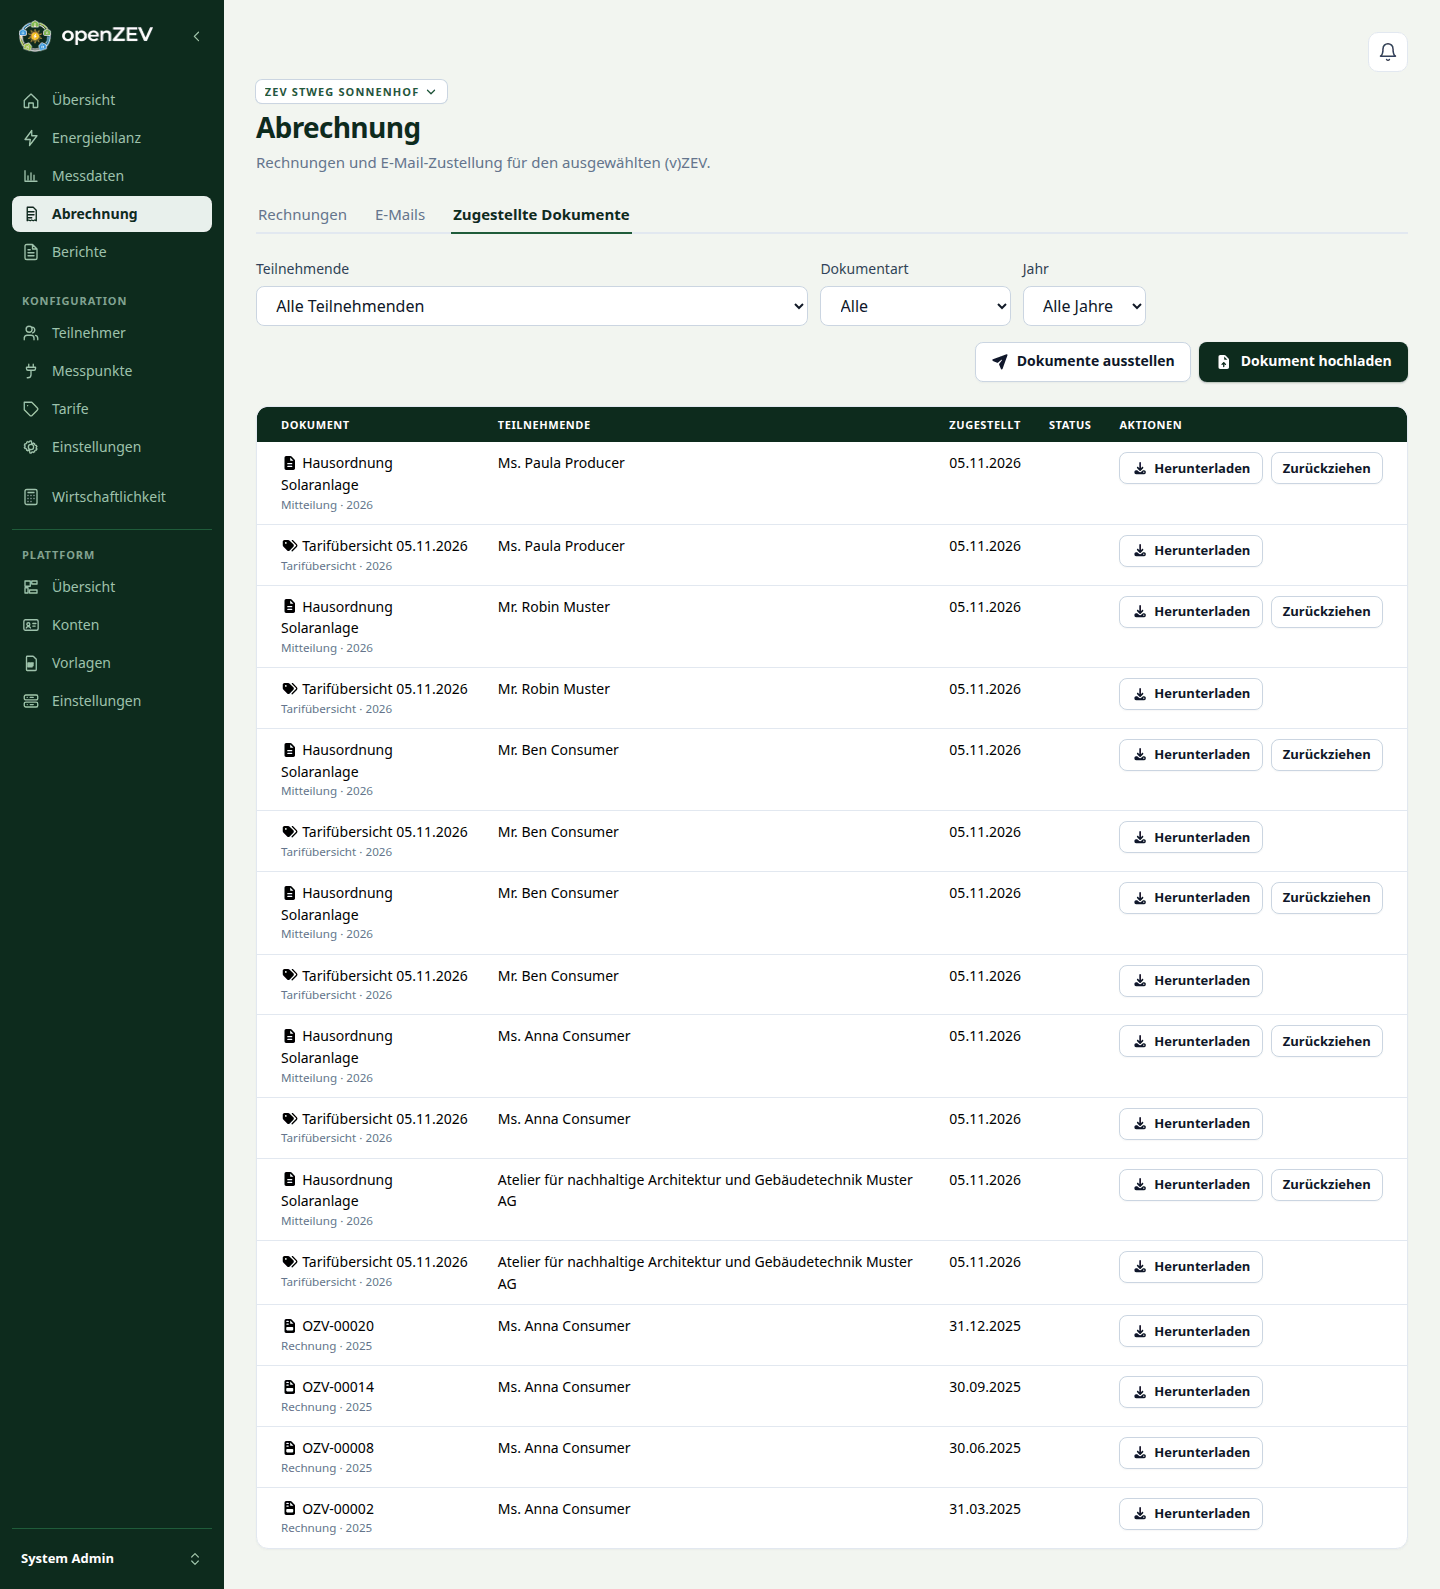
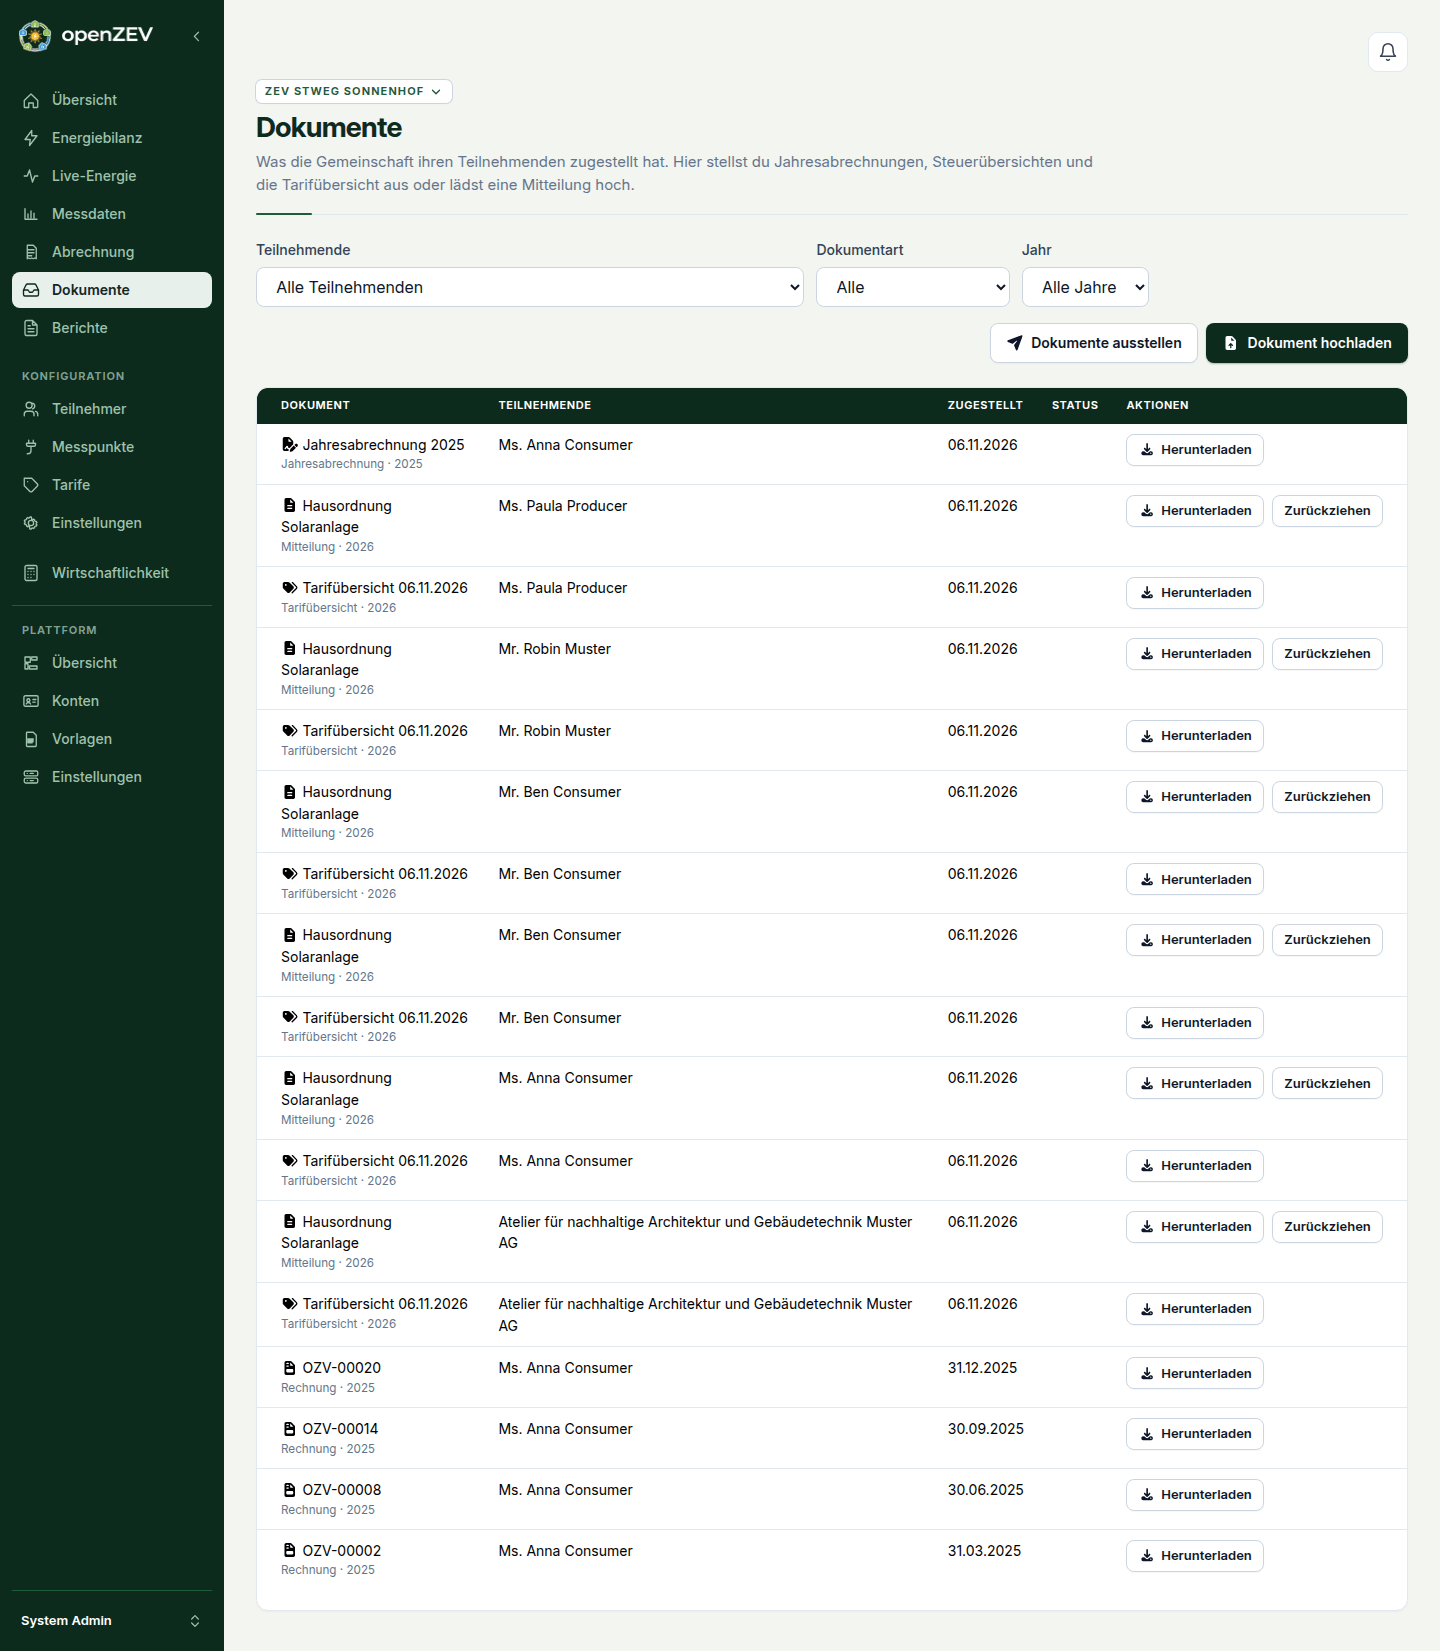
feat(inbox): give the participant documents a page of their own (#862)
What the community delivered to its participants, with Issue and Upload, was a
third tab of the billing hub. It is now Documents in the management navigation
(/documents); /billing/documents redirects. The outbox is cards on a phone.

diff --git a/frontend/src/features/inbox/Outbox.tsx b/frontend/src/features/inbox/Outbox.tsx
@@ -22,13 +22,14 @@ import { StandingBadge, useDownloadDocument } from './DocumentsList'
 import { IssueReportsDialog, issueYears } from './IssueReportsDialog'
 import { UploadDocumentDialog } from './UploadDocumentDialog'
 import './inbox.css'
+import './InvoiceDocuments.css'
 
 /**
- * The *Delivered documents* tab of the billing hub (spec §7.2): what the community delivered to
- * whom and when, so "did Anna get her statement?" has an answer. Withdrawn rows stay visible here
- * and are marked; participants no longer see them.
+ * The manager's *Participant documents* page body (spec §7.2): what the community delivered to
+ * whom and when, so "did Anna get her statement?" has an answer, and where documents are issued or
+ * uploaded. Withdrawn rows stay visible here and are marked; participants no longer see them.
  */
-export function OutboxTab() {
+export function Outbox() {
   const { t } = useTranslation()
   const { settings } = useAppSettings()
   const { pushToast } = useToast()
@@ -139,7 +140,7 @@ export function OutboxTab() {
         </div>
       ) : (
         <section className="table-card">
-          <div className="table-scroll">
+          <div className="table-scroll doc-wide">
             <table className="billing-workflow-table">
               <thead>
                 <tr>
@@ -202,6 +203,44 @@ export function OutboxTab() {
               </tbody>
             </table>
           </div>
+          <ul className="doc-cards">
+            {documents.map((document) => {
+              const addressee = document.participant ? byId.get(document.participant) : undefined
+              const withoutAccount = addressee != null && addressee.user == null
+              return (
+                <li key={document.id} className="doc-card">
+                  <div className="doc-card-head">
+                    <strong><FontAwesomeIcon icon={KIND_ICON[document.kind]} fixedWidth aria-hidden="true" /> {document.title}</strong>
+                    <span>
+                      <StandingBadge document={document} />
+                      {withoutAccount && <span className="badge badge-neutral">{t('inbox.outbox.noAccount')}</span>}
+                    </span>
+                  </div>
+                  <p className="muted doc-card-meta">
+                    {document.participant_name ?? '—'} · {t(`inbox.kind.${document.kind}`)} · {documentYear(document)}
+                  </p>
+                  <p className="muted doc-card-meta">
+                    {formatShortDate(document.delivered_at.slice(0, 10), settings)}
+                    {document.delivered_by_name ? ` · ${document.delivered_by_name}` : ''}
+                  </p>
+                  <button
+                    type="button"
+                    className="button button-secondary"
+                    aria-label={t('inbox.downloadLabel', { title: document.title })}
+                    onClick={() => void download(document)}
+                  >
+                    <FontAwesomeIcon icon={faDownload} fixedWidth />
+                    {t('inbox.download')}
+                  </button>
+                  {canWriteSelectedCommunity && document.kind === 'operator' && !document.withdrawn_at && (
+                    <button type="button" className="button button-secondary" onClick={() => askWithdraw(document)}>
+                      {t('inbox.outbox.withdraw')}
+                    </button>
+                  )}
+                </li>
+              )
+            })}
+          </ul>
         </section>
       )}
 

diff --git a/frontend/tests/route-guard-matrix.test.ts b/frontend/tests/route-guard-matrix.test.ts
@@ -85,6 +85,7 @@ vi.mock('../src/pages/TariffsPage', () => ({ TariffsPage: marker('tariffs') }))
 vi.mock('../src/pages/InvoicesPage', () => ({ InvoicesContent: marker('invoices') }))
 vi.mock('../src/pages/MyInvoicesPage', () => ({ MyInvoicesPage: marker('my-invoices') }))
 vi.mock('../src/pages/DocumentsPage', () => ({ DocumentsPage: marker('my-documents') }))
+vi.mock('../src/pages/ParticipantDocumentsPage', () => ({ ParticipantDocumentsPage: marker('participant-documents') }))
 vi.mock('../src/pages/MyMeteringPointsPage', () => ({ MyMeteringPointsPage: marker('my-metering-points') }))
 vi.mock('../src/pages/InvoiceDetailPage', () => ({ InvoiceDetailPage: marker('invoice-detail') }))
 vi.mock('../src/pages/ReportsPage', () => ({ ReportsPage: marker('reports') }))
@@ -174,6 +175,9 @@ const MATRIX: Array<{ path: string; marker: string; allow: Record<ShellRole, boo
     { path: '/billing/periods', marker: 'periods-alias', allow: { admin: true, manager: true, viewer: true, participant: false, former: false, none: false } },
     { path: '/billing/invoices', marker: 'billing-hub', allow: { admin: true, manager: true, viewer: true, participant: false, former: false, none: false } },
     { path: '/billing/emails', marker: 'billing-hub', allow: { admin: true, manager: true, viewer: true, participant: false, former: false, none: false } },
+    { path: '/documents', marker: 'participant-documents', allow: { admin: true, manager: true, viewer: true, participant: false, former: false, none: false } },
+    // The old tab of the billing hub redirects to the page of its own.
+    { path: '/billing/documents', marker: 'participant-documents', allow: { admin: true, manager: true, viewer: true, participant: false, former: false, none: false } },
     { path: '/billing/statements', marker: 'reports', allow: { admin: true, manager: true, viewer: true, participant: true, former: false, none: false } },
     { path: '/billing/invoices/42', marker: 'invoice-detail', allow: { admin: true, manager: true, viewer: true, participant: true, former: true, none: false } },
     { path: '/me/statement', marker: 'reports', allow: { admin: false, manager: false, viewer: false, participant: true, former: false, none: false } },

diff --git a/frontend/src/pages/BillingHubPage.tsx b/frontend/src/pages/BillingHubPage.tsx
@@ -4,7 +4,6 @@ import { useTranslation } from 'react-i18next'
 import { usePageNavigation } from '../lib/usePageNavigation'
 import { InvoicesContent } from './InvoicesPage'
 import { BillingEmailsPage } from './BillingEmailsPage'
-import { OutboxTab } from '../features/inbox/OutboxTab'
 import { PageHeader } from '../components/PageHeader'
 import { useScopeNote } from '../lib/communityAccess'
 
@@ -13,7 +12,7 @@ import { useScopeNote } from '../lib/communityAccess'
  * own guard. The hub owns the header and tabs; each body owns its queries and guards.
  */
 
-export type BillingTab = 'invoices' | 'emails' | 'documents'
+export type BillingTab = 'invoices' | 'emails'
 
 export function BillingHubPage({ tab }: { tab: BillingTab }) {
     const { t } = useTranslation()
@@ -25,7 +24,7 @@ export function BillingHubPage({ tab }: { tab: BillingTab }) {
     // period_start/period_end deep links); replace keeps same-hub tab
     // switches out of back-button history.
     function handleTabChange(value: string | null) {
-        navigateTab(`/billing/${value === 'emails' ? 'emails' : value === 'documents' ? 'documents' : 'invoices'}`)
+        navigateTab(`/billing/${value === 'emails' ? 'emails' : 'invoices'}`)
     }
 
     return (
@@ -46,7 +45,6 @@ export function BillingHubPage({ tab }: { tab: BillingTab }) {
                 <AppTabs.List aria-label={t('nav.billing')}>
                     <AppTabs.Tab value="invoices">{t('pages.billingHub.tabs.invoices')}</AppTabs.Tab>
                     <AppTabs.Tab value="emails">{t('pages.billingHub.tabs.emails')}</AppTabs.Tab>
-                    <AppTabs.Tab value="documents">{t('pages.billingHub.tabs.documents')}</AppTabs.Tab>
                 </AppTabs.List>
 
                 <AppTabs.Panel value="invoices">
@@ -54,9 +52,6 @@ export function BillingHubPage({ tab }: { tab: BillingTab }) {
                 </AppTabs.Panel>
                 <AppTabs.Panel value="emails">
                     <BillingEmailsPage />
-                </AppTabs.Panel>
-                <AppTabs.Panel value="documents">
-                    <OutboxTab />
                 </AppTabs.Panel>
             </AppTabs>
         </div>

diff --git a/frontend/tests/participant-documents-page.test.ts b/frontend/tests/participant-documents-page.test.ts
@@ -1,0 +1,34 @@
+import { act, createElement } from 'react'
+import { createRoot } from 'react-dom/client'
+import { MemoryRouter } from 'react-router-dom'
+import { MantineProvider } from '@mantine/core'
+import { afterEach, describe, expect, it, vi } from 'vitest'
+
+vi.mock('react-i18next', () => ({ useTranslation: () => ({ t: (key: string) => key }) }))
+vi.mock('../src/lib/auth', () => ({ useAuth: () => ({ user: { role: 'user' } }) }))
+vi.mock('../src/lib/managedZev', () => {
+    const context = { useManagedZev: () => ({ selectedZev: { id: 'z1', name: 'Sonnenhof' }, relation: 'manager' }) }
+    return { ...context, useOptionalManagedZev: context.useManagedZev }
+})
+vi.mock('../src/features/inbox/Outbox', () => ({ Outbox: () => createElement('div', { 'data-testid': 'outbox' }) }))
+
+import { ParticipantDocumentsPage } from '../src/pages/ParticipantDocumentsPage'
+
+const cleanups: Array<() => void> = []
+afterEach(() => cleanups.splice(0).forEach((cleanup) => cleanup()))
+
+describe('ParticipantDocumentsPage', () => {
+    it('is a page of its own: the community, a title and the outbox, with no billing tabs', () => {
+        const container = document.createElement('div')
+        document.body.appendChild(container)
+        const root = createRoot(container)
+        act(() => root.render(createElement(MemoryRouter, null, createElement(MantineProvider, null, createElement(ParticipantDocumentsPage)))))
+        cleanups.push(() => { act(() => root.unmount()); container.remove() })
+
+        expect(container.querySelector('h1')?.textContent).toBe('nav.participantDocuments')
+        expect(container.textContent).toContain('pages.participantDocuments.description')
+        expect(container.textContent).toContain('Sonnenhof')
+        expect(container.querySelector('[data-testid="outbox"]')).not.toBeNull()
+        expect(container.querySelector('[role="tablist"]')).toBeNull()
+    })
+})

diff --git a/frontend/src/components/AppRoutes.tsx b/frontend/src/components/AppRoutes.tsx
@@ -17,6 +17,7 @@ const AccountProfilePage = lazy(async () => ({ default: (await import('../pages/
 const AdminOverviewHubPage = lazy(async () => ({ default: (await import('../pages/AdminOverviewHubPage')).AdminOverviewHubPage }))
 const AdminAccountsHubPage = lazy(async () => ({ default: (await import('../pages/AdminAccountsHubPage')).AdminAccountsHubPage }))
 const AdminTemplatesHubPage = lazy(async () => ({ default: (await import('../pages/AdminTemplatesHubPage')).AdminTemplatesHubPage }))
+const ParticipantDocumentsPage = lazy(async () => ({ default: (await import('../pages/ParticipantDocumentsPage')).ParticipantDocumentsPage }))
 const BillingHubPage = lazy(async () => ({ default: (await import('../pages/BillingHubPage')).BillingHubPage }))
 const FeasibilityCalculatorPage = lazy(async () => ({ default: (await import('../pages/FeasibilityCalculatorPage')).FeasibilityCalculatorPage }))
 const AdminSystemSettingsPage = lazy(async () => ({ default: (await import('../pages/AdminSystemSettingsPage')).AdminSystemSettingsPage }))
@@ -257,11 +258,13 @@ export function AppRoutes() {
               </ProtectedRoute>
             }
           />
+          {/* The participant documents moved out of the billing hub into a page of their own. */}
+          <Route path="billing/documents" element={<AliasNavigate to="/documents" />} />
           <Route
-            path="billing/documents"
+            path="documents"
             element={
               <ProtectedRoute allowedRoles={ZEV_SCOPE}>
-                <BillingHubPage tab="documents" />
+                <ParticipantDocumentsPage />
               </ProtectedRoute>
             }
           />

diff --git a/frontend/tests/layout-nav.test.ts b/frontend/tests/layout-nav.test.ts
@@ -319,6 +319,8 @@ describe('role navigation (see docs/specs/2026-03-community-and-access.md §9.3)
         expect(page.hasHref('/metering/imports')).toBe(false)
         expect(page.hasHref('/dashboard')).toBe(true)
         expect(page.hasHref('/billing/invoices')).toBe(true)
+        // What was delivered to participants has a page of its own, not a billing tab.
+        expect(page.hasHref('/documents')).toBe(true)
         expect(page.hasHref('/reports')).toBe(true)
         // Audit log is a ZEV-settings tab now (deep link only).
         expect(page.hasHref('/audit-logs')).toBe(false)
@@ -401,7 +403,7 @@ describe('role navigation (see docs/specs/2026-03-community-and-access.md §9.3)
         expect(page.hasHref('/me/invoices')).toBe(true)
         expect(page.hasHref('/me/documents')).toBe(true)
         expect(page.hasHref('/me/statement')).toBe(true)
-        for (const href of ['/reports', '/metering/imports', '/participants', '/tariffs', '/zev-settings', '/audit-logs', '/admin']) {
+        for (const href of ['/reports', '/documents', '/metering/imports', '/participants', '/tariffs', '/zev-settings', '/audit-logs', '/admin']) {
             expect(page.hasHref(href)).toBe(false)
         }
         // "My consumption" folded into the participant dashboard (phase 2):

diff --git a/frontend/src/pages/ParticipantDocumentsPage.tsx b/frontend/src/pages/ParticipantDocumentsPage.tsx
@@ -1,0 +1,29 @@
+import { useTranslation } from 'react-i18next'
+import { Outbox } from '../features/inbox/Outbox'
+import { PageHeader } from '../components/PageHeader'
+import { useManagedZev } from '../lib/managedZev'
+import { useScopeNote } from '../lib/communityAccess'
+
+/**
+ * What the community delivered to its participants, and where to issue or upload a document
+ * (`/documents`, SPEC-2026-11-participant-document-inbox §7.2). A page of its own rather than a
+ * billing tab: it is not about invoices, and hidden behind a tab nobody found it.
+ */
+export function ParticipantDocumentsPage() {
+    const { t } = useTranslation()
+    const scopeNote = useScopeNote()
+    const { selectedZev } = useManagedZev()
+
+    return (
+        <div className="page-stack">
+            <PageHeader
+                eyebrow={selectedZev?.name}
+                communitySwitch
+                scopeNote={scopeNote}
+                title={t('nav.participantDocuments')}
+                description={t('pages.participantDocuments.description')}
+            />
+            <Outbox />
+        </div>
+    )
+}

diff --git a/frontend/tests/billing-hub-order.test.ts b/frontend/tests/billing-hub-order.test.ts
@@ -16,7 +16,6 @@ vi.mock('../src/lib/managedZev', () => {
 })
 vi.mock('../src/pages/InvoicesPage', () => ({ InvoicesContent: () => createElement('div') }))
 vi.mock('../src/pages/BillingEmailsPage', () => ({ BillingEmailsPage: () => createElement('div') }))
-vi.mock('../src/features/inbox/OutboxTab', () => ({ OutboxTab: () => createElement('div') }))
 
 import { BillingHubPage } from '../src/pages/BillingHubPage'
 
@@ -53,12 +52,11 @@ describe('billing hub information architecture', () => {
         expect(tabs).toEqual([
             'pages.billingHub.tabs.invoices',
             'pages.billingHub.tabs.emails',
-            'pages.billingHub.tabs.documents',
         ])
         expect(container.textContent).not.toContain('pages.billingHub.tabs.periods')
     })
 
-    it.each(['invoices', 'emails', 'documents'] as const)('spaces the active %s panel', (tab) => {
+    it.each(['invoices', 'emails'] as const)('spaces the active %s panel', (tab) => {
         const container = mountHub(tab)
 
         const activeTab = container.querySelector('[role="tab"][aria-selected="true"]')!

diff --git a/frontend/src/components/Layout.tsx b/frontend/src/components/Layout.tsx
@@ -302,6 +302,7 @@ export function Layout() {
                                 {liveEnabled && <SidebarLink to="/my-energy" label={t('nav.liveEnergy')} icon={<LiveIcon />} collapsed={isNavigationCollapsed} />}
                                 <SidebarLink to="/metering/chart" label={t('nav.metering')} icon={<ChartIcon />} active={meteringActive} collapsed={isNavigationCollapsed} />
                                 <SidebarLink to="/billing/invoices" label={t('nav.billing')} icon={<InvoiceIcon />} active={billingActive} collapsed={isNavigationCollapsed} />
+                                <SidebarLink to="/documents" label={t('nav.participantDocuments')} icon={<DocumentIcon />} collapsed={isNavigationCollapsed} />
                                 <SidebarLink to="/reports" label={t('nav.reports')} icon={<ReportsIcon />} collapsed={isNavigationCollapsed} />
                                 {holdsOwnFlaggedMeter && (
                                     <SidebarLink to="/me/metering-points" label={t('nav.myMeteringPoints')} icon={<PlugIcon />} collapsed={isNavigationCollapsed} />

diff --git a/frontend/src/i18n/locales/it.ts b/frontend/src/i18n/locales/it.ts
@@ -27,6 +27,7 @@ export const it = {
         billing: 'Fatturazione',
         myInvoices: 'Le mie fatture',
         myDocuments: 'I miei documenti',
+        participantDocuments: 'Documenti',
         annualStatement: 'Conteggio annuale',
         myMeteringPoints: 'I miei punti di misura',
         myEnergy: 'Il mio sistema energetico',
@@ -3823,8 +3824,10 @@ export const it = {
             tabs: {
                 invoices: 'Fatture',
                 emails: 'E-mail',
-                documents: 'Documenti consegnati',
             },
+        },
+        participantDocuments: {
+            description: 'Ciò che la comunità ha recapitato ai suoi partecipanti. Emetti qui i rendiconti annuali, i riepiloghi fiscali e la panoramica delle tariffe, oppure carica una comunicazione.',
         },
         billingPeriods: {
             failed: 'Impossibile caricare i periodi di fatturazione.',

diff --git a/frontend/src/i18n/locales/fr.ts b/frontend/src/i18n/locales/fr.ts
@@ -27,6 +27,7 @@ export const fr = {
         billing: 'Facturation',
         myInvoices: 'Mes factures',
         myDocuments: 'Mes documents',
+        participantDocuments: 'Documents',
         annualStatement: 'Décompte annuel',
         myMeteringPoints: 'Mes points de mesure',
         myEnergy: 'Mon système énergétique',
@@ -3823,8 +3824,10 @@ export const fr = {
             tabs: {
                 invoices: 'Factures',
                 emails: 'E-mails',
-                documents: 'Documents remis',
             },
+        },
+        participantDocuments: {
+            description: 'Ce que la communauté a remis à ses participants. Émettez ici les relevés annuels, les récapitulatifs fiscaux et l\'aperçu des tarifs, ou téléversez une communication.',
         },
         billingPeriods: {
             failed: 'Échec du chargement des périodes de facturation.',

diff --git a/frontend/src/i18n/locales/de.ts b/frontend/src/i18n/locales/de.ts
@@ -27,6 +27,7 @@ export const de = {
         billing: 'Abrechnung',
         myInvoices: 'Meine Rechnungen',
         myDocuments: 'Meine Dokumente',
+        participantDocuments: 'Dokumente',
         annualStatement: 'Jahresabrechnung',
         myMeteringPoints: 'Meine Messpunkte',
         myEnergy: 'Mein Energiesystem',
@@ -3823,8 +3824,10 @@ export const de = {
             tabs: {
                 invoices: 'Rechnungen',
                 emails: 'E-Mails',
-                documents: 'Zugestellte Dokumente',
             },
+        },
+        participantDocuments: {
+            description: 'Was die Gemeinschaft ihren Teilnehmenden zugestellt hat. Hier stellst du Jahresabrechnungen, Steuerübersichten und die Tarifübersicht aus oder lädst eine Mitteilung hoch.',
         },
         billingPeriods: {
             failed: 'Abrechnungsperioden konnten nicht geladen werden.',
